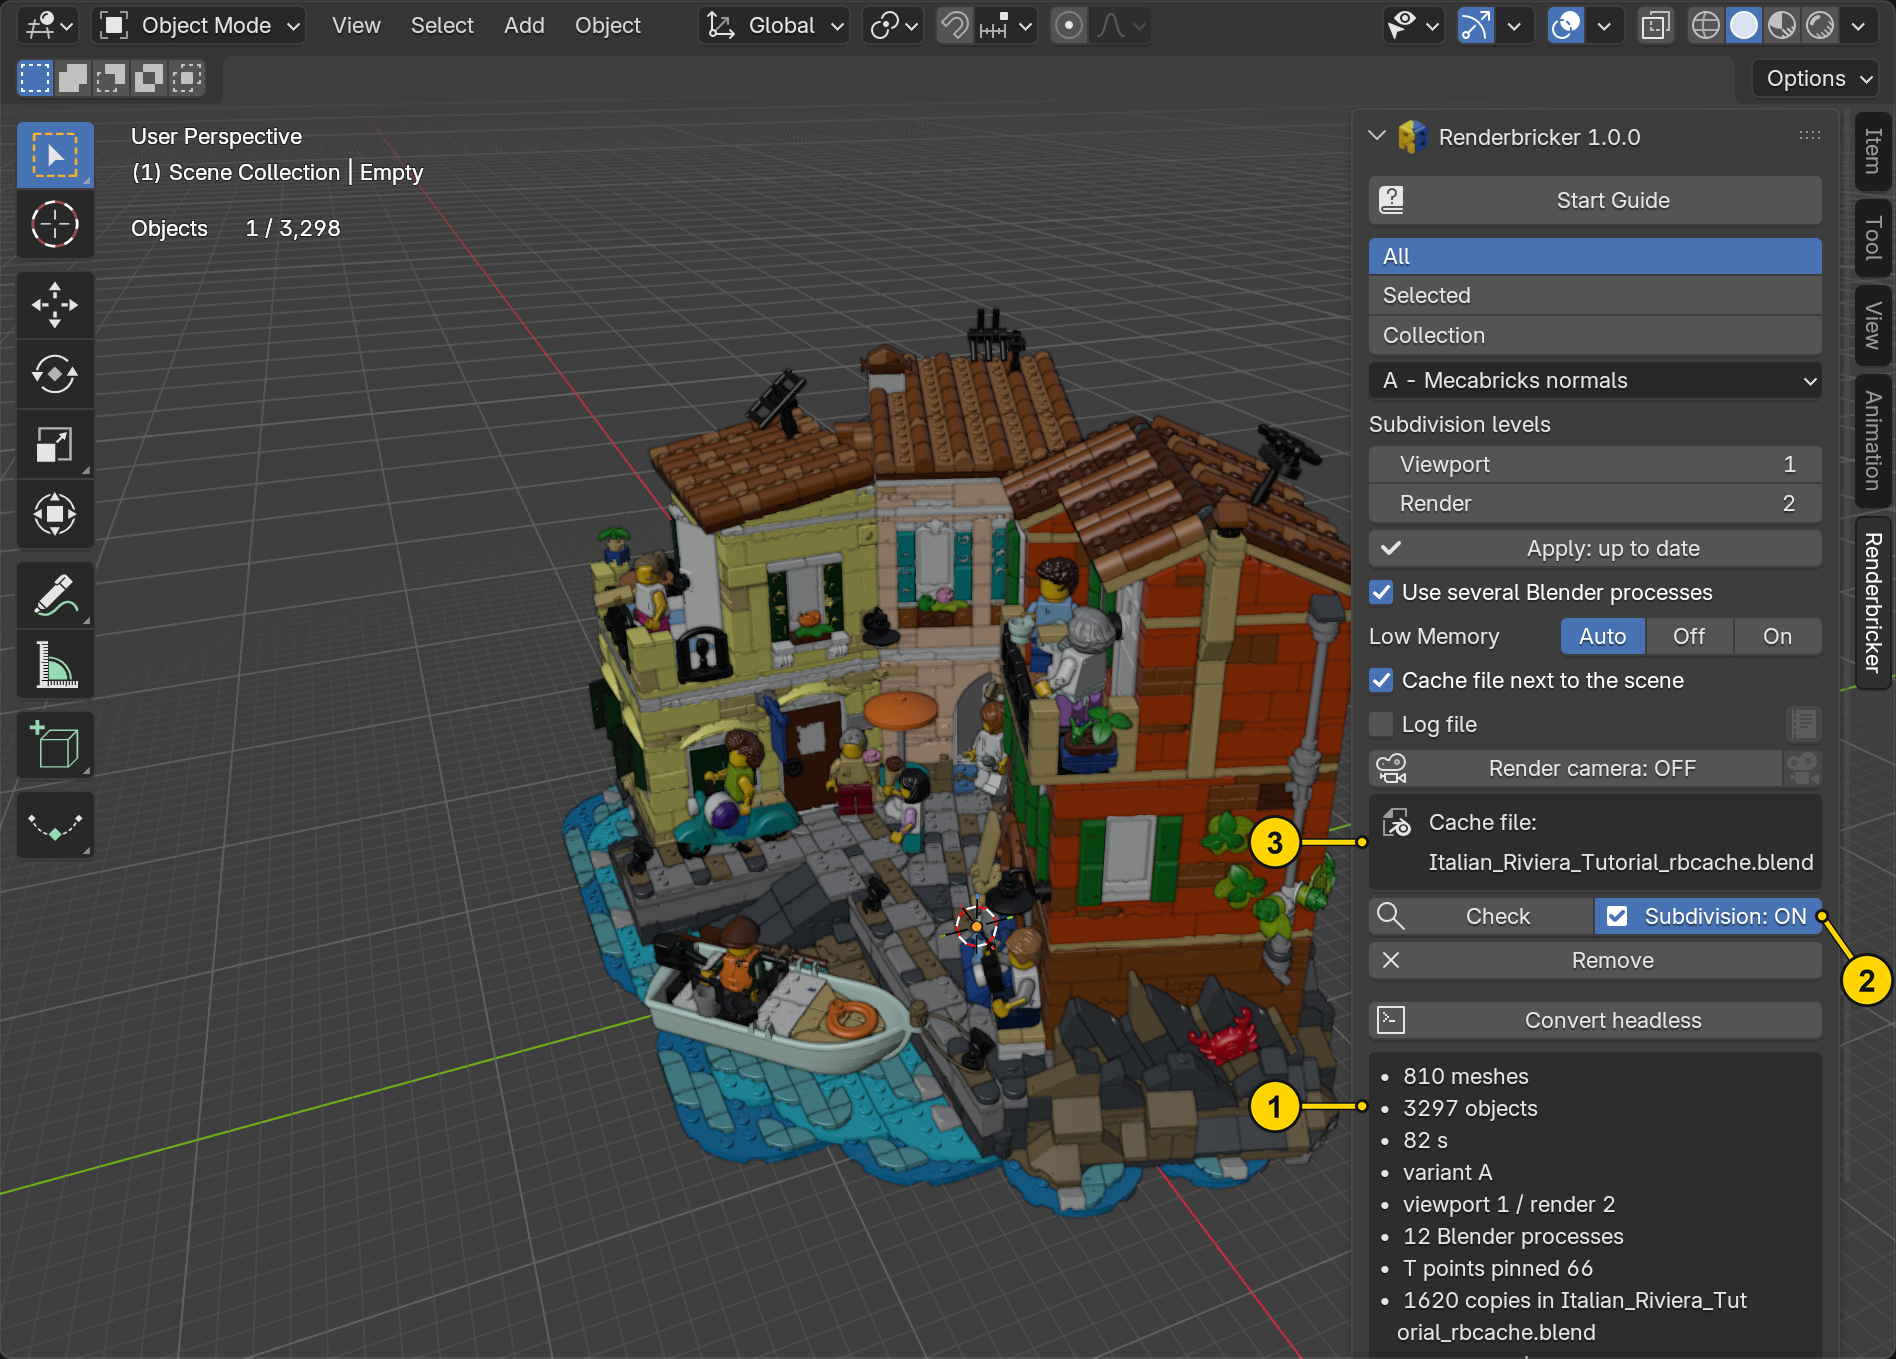
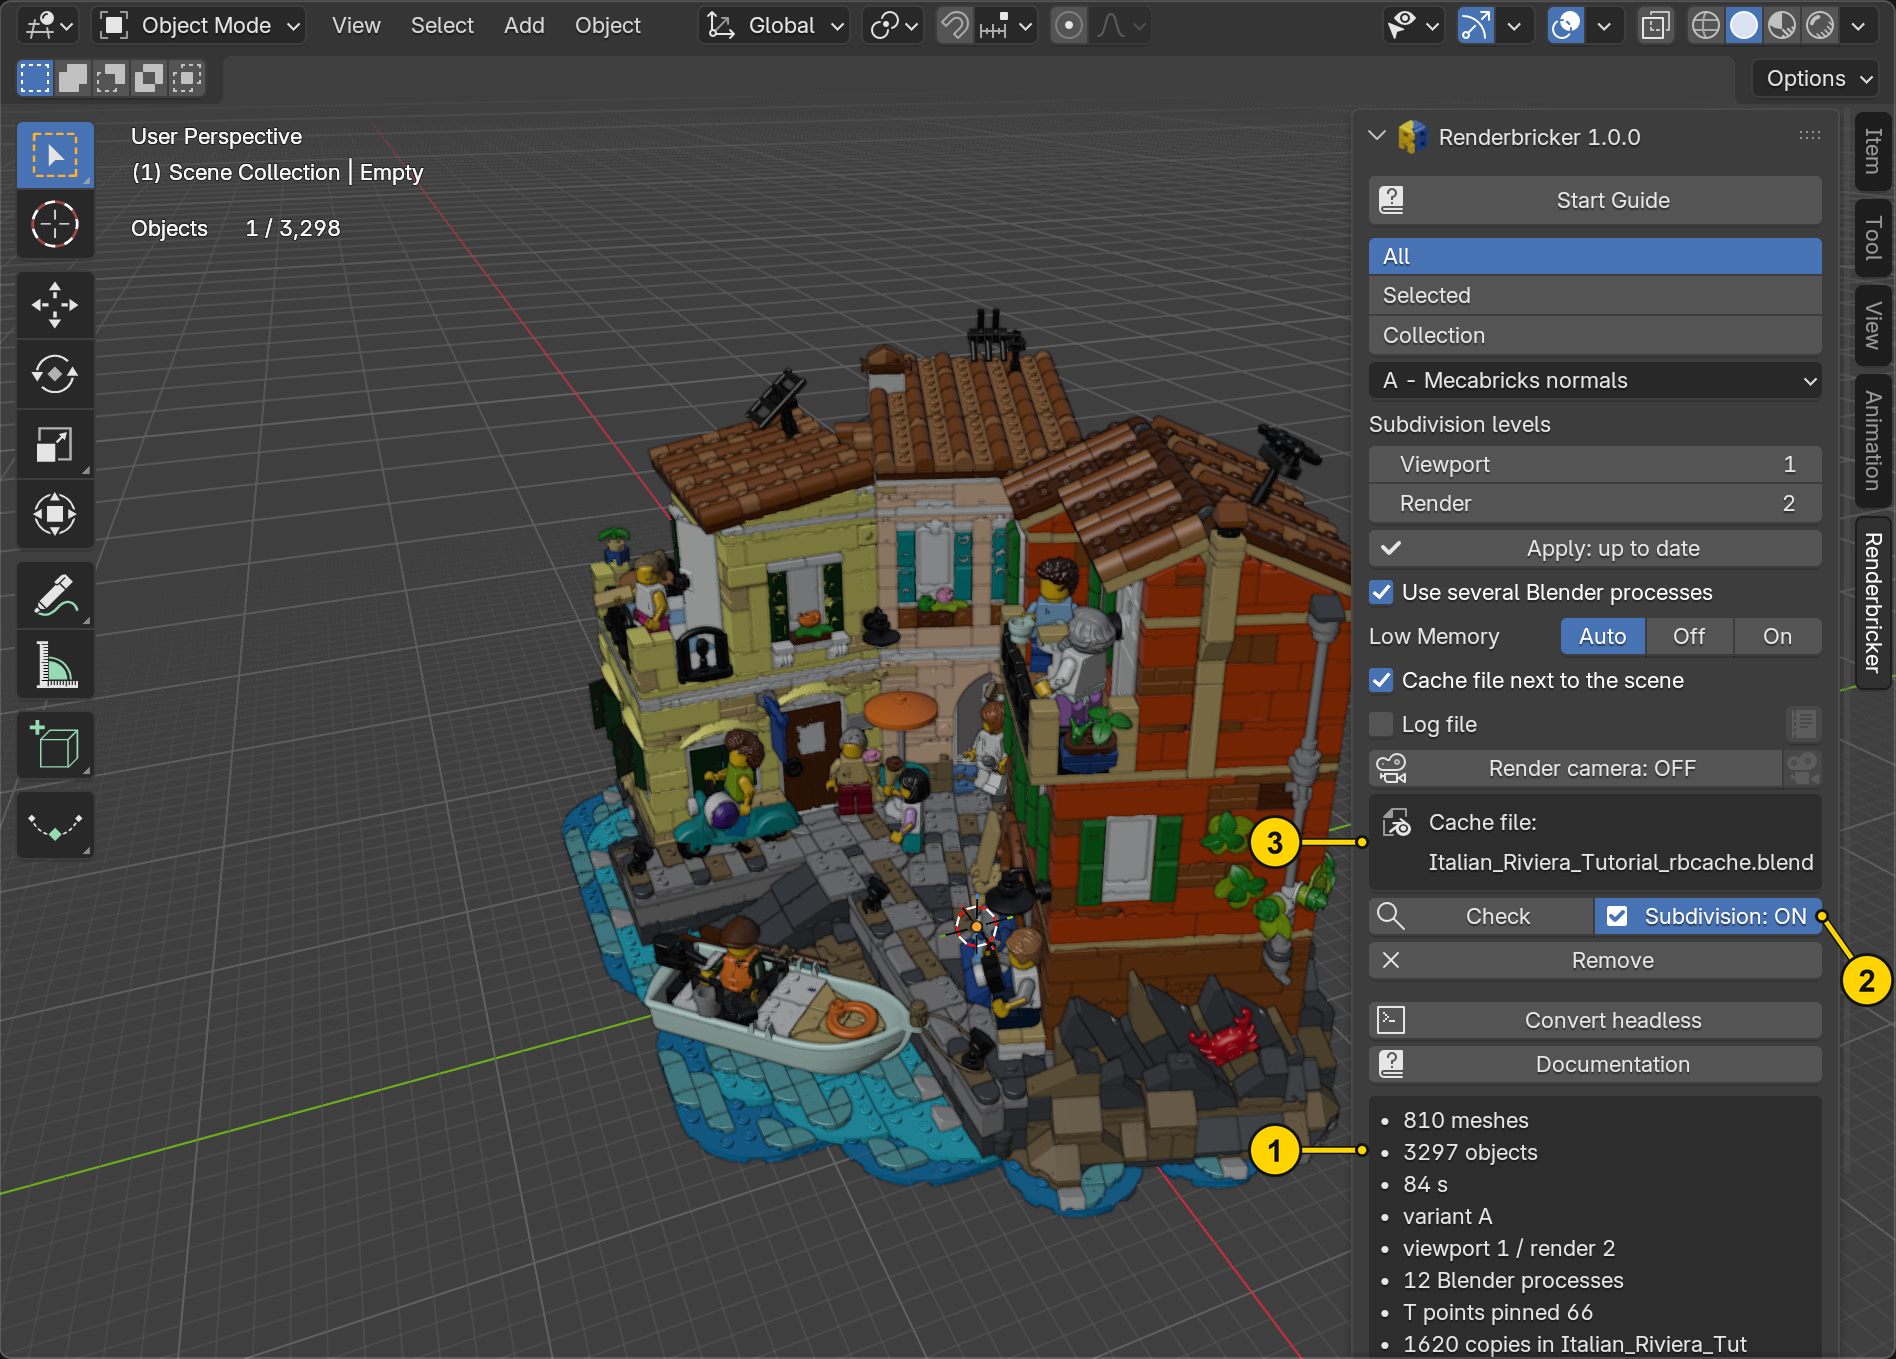
About: author and study programme link (Digital Film Design—Animation/VFX), legal text justified with the author first; copyright under Documentation, Documentation button in the panel; tutorial pictures re-shot
Claude-Session: https://claude.ai/code/session_01VSXh4cVLfm4J2gU6DRZHzJ

Changed region(s): [[0.6535, 0.7726, 0.9647, 1.0]]

diff --git a/addon/renderbricker/__init__.py b/addon/renderbricker/__init__.py
@@ -2252,8 +2252,7 @@ def _g_render(L, context, s):
 
 def _g_next(L, context, s):
     L.operator("mecsub.headless", icon='CONSOLE')
-    L.operator("wm.url_open", text="Documentation", icon='HELP').url = \
-        "https://github.com/Renderbricks/Renderbricker#documentation"
+    L.operator("wm.url_open", text="Documentation", icon='HELP').url = DOCUMENTATION_URL
     return True
 
 
@@ -2458,24 +2457,27 @@ class MECSUB_PT_panel(bpy.types.Panel):
         body.operator("mecsub.remove", icon='X')
         body.separator()
         body.operator("mecsub.headless", icon='CONSOLE')
+        body.operator("wm.url_open", text="Documentation", icon='HELP').url = DOCUMENTATION_URL
         draw_summary(L, s)
-        col = L.column(align=True)
-        col.scale_y = 0.8
-        for line in COPYRIGHT.split(" – "):         # holder on its own line, the name is never split
-            col.label(text=line)
+        wrapped(L, COPYRIGHT, context, center=True)     # centred under Documentation (user, 2026-09-29)
 
 
-COPYRIGHT = "© 2026 Renderbricks® – Prof. Michael Klein"
+COPYRIGHT = "© 2026 Renderbricks®"                     # centred under Documentation (user, 2026-09-29)
+DOCUMENTATION_URL = "https://github.com/Renderbricks/Renderbricker#documentation"
 NAME_DROP = 1.15                        # header: height of the name's box - the logo's B between cap line and baseline (user's mock-up)
 HEADER_LOGO_SCALE = 1.15               # header: the logo 15 % larger than an icon
 LOGO_SCALE = 4.37                       # About: the logo as wide as "Renderbricks®" below it (icon units)
 TRADEMARK = ("Renderbricks®", "is a registered word mark in Germany.")   # the name alone under the logo (user)
-DISCLAIMER = ("Ren|der|bricks is about ren|der|ing dig|i|tal LEGO®. LEGO® is a trade|mark of the LEGO Group of "
+DISCLAIMER = ("Au|thor: Prof. Mi|chael Klein—Me|di|a|de|sign Uni|ver|si|ty of Ap|plied Sci|ences. "
+              "Ren|der|bricks is about ren|der|ing dig|i|tal LEGO®. LEGO® is a trade|mark of the LEGO Group of "
               "com|pa|nies which does not spon|sor, au|tho|rize or en|dorse this add-on.")   # | = hyphenation point
 LINKS = (("www.renderbricks.com", "https://www.renderbricks.com", 'URL'),
          ("Facebook", "https://www.facebook.com/renderbricks", 'COMMUNITY'),
          ("YouTube", "https://www.youtube.com/@renderbricks", 'PLAY'),
-         ("Renderbricker on GitHub", "https://github.com/Renderbricks/Renderbricker", 'HELP'))
+         ("Renderbricker on GitHub", "https://github.com/Renderbricks/Renderbricker", 'HELP'),
+         ("Digital Film Design—Animation/VFX",
+          "https://www.mediadesign.de/de/bachelor/digital-film-design-animation-vfx-ba",
+          'FILE_MOVIE'))                    # the film strip: the study programme Digital Film Design
 
 
 def justified(layout, text, context):

diff --git a/docs/TUTORIAL.md b/docs/TUTORIAL.md
@@ -145,7 +145,7 @@ with level 1, and F12 switches to level 2 only while it renders.
 
 A progress bar shows the parts done and the time left (1); **Esc** cancels (2). Blenders in the
 background share the work – for the Italian Riviera twelve of them converted the 810 parts in
-82 seconds. At the end the scene is saved.
+84 seconds. At the end the scene is saved.
 
 ![After Apply: the summary (1), Subdivision: ON (2) and the cache file (3)](images/tutorial/T05_apply_result.webp)
 
